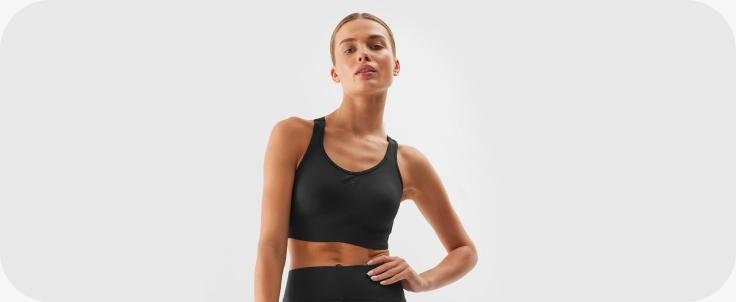
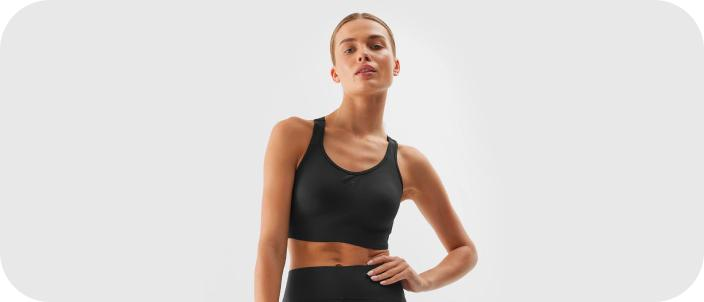
110min-2

Changed region(s): [[0.3438, 0.0298, 0.6875, 1.0]]

diff --git a/src/css/index/motivation.css b/src/css/index/motivation.css
@@ -3,30 +3,37 @@
     flex-direction: column;
     justify-content: center;
     align-items: center;
-    
     width: 100%;
 }
 
+/* Foto */
+
 .sport-image {
-    
-box-sizing: border-box;
-max-width: auto;    
-border-radius: 30px;
-background:  #E8E8E8;
+    height: 50%;
 }
 
+.foto-women-style {
+    width: 100%;
+    border-radius: 30px;
+    background: #E8E8E8;
+    max-height: 100%;
+}
+
+/* 101 min */
+
 .norm-of-sports {
+    position: relative;
     display: flex;
     flex-direction: column;
     max-width: 100%; 
+    height: 50%;
     border-radius: 30px;
     background: #1B1B1B;
     }
     
     .article-title {
         padding-left: 70px;
-        margin-top: 40px;
-        margin-bottom: auto;
+        padding-top: 40px;
     color: #F6F6F6;
     font-feature-settings: 'clig' off, 'liga' off;
     font-size: 20px;
@@ -38,7 +45,7 @@ background:  #E8E8E8;
     .daily-norm {
         margin-top: auto;
         padding-left: 70px;
-        margin-bottom: auto;
+        margin-bottom: 14px;
     color: rgba(246, 246, 246, 0.60);
     font-size: 14px;
     font-style: normal;
@@ -59,13 +66,64 @@ background:  #E8E8E8;
     }
 
     .icon-dumbbell {
-        fill: aqua;
-        padding-top: 65px;
-        padding-left: 64px;
+        position: absolute;
+        left: 36px; 
+        top: 46px; 
+        transform: translateX(-50%);
+        fill: #F6F6F6;
+        display: flex;
         justify-content: center;
         align-items: center;
-        border:  aqua;
+        border:  #F6F6F6;
         border-radius: 50%;
     }
+
     
-    
+    /*tablet   */
+
+    @media screen and (min-width: 768px) {
+        .norm-of-sports {
+            height: 302px;   
+        }
+        .daily-norm {
+           
+            margin-bottom: 25px;
+            padding-left: 114px;   
+        }
+        .article-title {
+            padding-left: 114px;
+            padding-top: 64px;
+            font-size: 24px;
+            line-height: 1.33;   
+        }
+        .daily-norm-text {
+            padding-left: 114px;
+            padding-right: 96px;
+            padding-bottom: 64px;
+            font-size: 16px;
+            font-weight: 400;
+            line-height: 1.5;  
+        }
+        .icon-dumbbell {
+            left: 70px; 
+            top: 71px; 
+        }
+    }
+
+    @media screen and (min-width: 1024px) {
+        .sport-image-section {
+            flex-direction: row;
+            max-width: 1408px;
+           height: 302px;   
+        }
+        .foto-women-style {
+            width: auto;
+            max-height: 100%;   
+        }
+        .sport-image {
+            height: auto;
+        }
+        .daily-norm-text {
+            padding-right: 64px;    
+        }
+    }

diff --git a/src/partials/index/motivation.html b/src/partials/index/motivation.html
@@ -1,6 +1,14 @@
 <div class="container  sport-image-section">
-  <div class="sport-image" >
-    <img src="../../images/img_motivation/mobile_1.jpg" alt="Women's style"/>
+  <div class="sport-image">
+    <img 
+      srcset="../../images/img_motivation/Desctop_1.jpg   704w,
+              ../../images/img_motivation/Desctop_@2x.jpg 1408w,
+              ../../images/img_motivation/tablet_1.jpg    736w,
+              ../../images/img_motivation/tablet@2x.jpg   1472w,
+              ../../images/img_motivation/mobile_1.jpg    335w,
+              ../../images/img_motivation/mobile_@2x.jpg  670w"
+      sizes="(min-width: 1440px) 704px, (min-width: 768px) 736px, (max-width: 767px) 335px"
+      src="../../images/img_motivation/mobile_1.jpg" class="foto-women-style" alt="Women's style"/>
   </div>
   <div class="norm-of-sports">
       <svg
